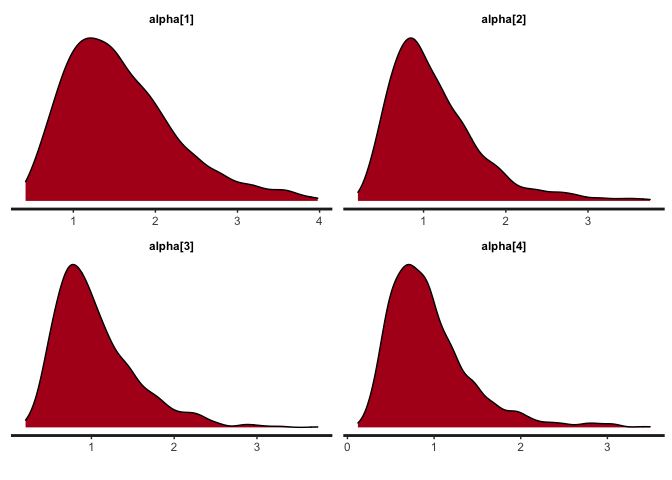
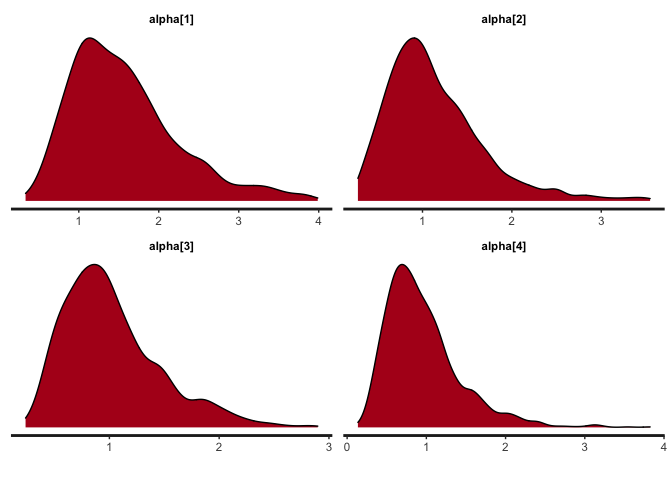
Update comments and figure size in README.Rmd

diff --git a/README.md b/README.md
@@ -47,26 +47,28 @@ model, extract and plot results.
 library(BMGGUM)
 
 ## basic example code
-# Response data
+## Step 1: Input data
+# 1.1 Response data in wide format
 GGUM.Data <- c(1,4,4,1,1,1,1,1,1,1,4,1,1,3,1,1,NA,2,NA,3,2,2,2,1,3,2,NA,2,1,1,2,1,NA,NA,NA,1,3,NA,1,2)
 GGUM.Data <- matrix(GGUM.Data,nrow = 10)
 
-# delindex
+# 1.2 A two-row data matrix: the first row is the item number (1,2,3,4...); the second row indicates the signs of delta for each item (-1,0,1,...). For items that have negative deltas for sure, "-1" should be assigned; for items that have positive deltas, "1" should be assigned; for items whose deltas may be either positive or negative (e.g., intermediate items), "0" should assigned. We recommend at least two positive and two negative items per trait for better estimation.
 delindex <- c(1,-1,2,1,3,-1,4,1)
 delindex <- matrix(delindex,nrow = 2)
 
-# ind
+# 1.3 A row vector mapping each item to each trait. For example, c(1,1,1,2,2,2) means that the first 3 items belong to trait 1 and the last 3 items belong to trait 2.
 ind <- c(1,1,2,2)
 ind <- t(ind)
 
-# covariate
+# 1.4 An p*c person covariate matrix where p equals sample size and c equals the number of covariates. The default is NULL, meaning no person covariate.
 covariate <- c(0.70, -1.25, 0.48, -0.47, 0.86, 1.25, 1.17, -1.35, -0.84, -0.55)
 
-# Fit the MGGUM model
+## Step 2: Fit the MGGUM model
 mod <- BMGGUM(GGUM.Data=GGUM.Data, delindex=delindex, trait=2, ind=ind, option=4, model="UM8", covariate=covariate)
 #> [1] "Case 9 was deleted because they endorse the same response option across all items"
 
-# Extract the theta estimates 
+## Step 3: Extract the estimated results 
+# 3.1 Extract the theta estimates 
 theta <- Extract.BMGGUM(x=mod, pars='theta')
 # Turn the theta estimates into p*trait matrix where p equals sample size and trait equals the number of latent traits
 theta <- theta[,1]
@@ -76,17 +78,17 @@ theta <- t(theta)
 # theta estimates in p*trait matrix format
 theta
 #>              [,1]       [,2]
-#>  [1,]  1.02027771  0.1112450
-#>  [2,] -1.50303636 -0.4757993
-#>  [3,] -1.23103651 -0.5853762
-#>  [4,]  0.69315111  0.9592051
-#>  [5,] -0.03894941 -0.7695685
-#>  [6,]  0.15619541 -0.6873740
-#>  [7,]  0.84861339  0.3318221
-#>  [8,]  0.12068104  0.4478592
-#>  [9,]  0.66487328  0.8901462
+#>  [1,]  1.00755202  0.1051978
+#>  [2,] -1.48304663 -0.3815527
+#>  [3,] -1.24215031 -0.5797086
+#>  [4,]  0.66723737  0.9480621
+#>  [5,]  0.09211222 -0.7688336
+#>  [6,]  0.25556022 -0.7676078
+#>  [7,]  0.87850501  0.3453732
+#>  [8,] -0.04140219  0.4592622
+#>  [9,]  0.65549867  0.8783695
 
-# Extract the tau estimates 
+# 3.2 Extract the tau estimates 
 tau <- Extract.BMGGUM(x=mod, pars='tau')
 # Turn the tau estimates into I*(option-1) matrix where I equals the number of items and option equals the number of response options
 tau <- tau[,1]
@@ -95,38 +97,40 @@ tau <- matrix(tau, nrow=3)
 tau <- t(tau)
 # tau estimates in I*(option-1) matrix format
 tau
-#>            [,1]       [,2]       [,3]
-#> [1,] -0.8559964 -1.4779004 -2.3206627
-#> [2,] -1.5405565 -1.8804769 -1.0592084
-#> [3,] -3.1956647 -0.8870041 -0.8631355
-#> [4,] -2.2876189 -1.3062246 -1.0204106
+#>            [,1]      [,2]       [,3]
+#> [1,] -0.8295094 -1.498559 -2.3144571
+#> [2,] -1.5646050 -1.889293 -1.0866118
+#> [3,] -3.2392564 -0.884879 -0.8864353
+#> [4,] -2.3187464 -1.317304 -1.0316517
 
-# Extract the lambda estimates 
+# 3.3 Extract the lambda estimates 
 lambda <- Extract.BMGGUM(x=mod, pars='lambda')
 # lambda[1,1] is the coefficient linking person covariate 1 to latent trait 1
 # lambda[1,2] is the coefficient linking person covariate 1 to latent trait 2
 lambda
 #>                   mean    se_mean        sd       2.5%        50%     97.5%
-#> lambda[1,1]  0.2563650 0.03887061 0.5254527 -0.6997604  0.2333346 1.4214331
-#> lambda[1,2] -0.2542906 0.02739855 0.6164561 -1.5319360 -0.2272128 0.8995756
+#> lambda[1,1]  0.3133386 0.05326958 0.5466074 -0.6521527  0.2707874 1.5867761
+#> lambda[1,2] -0.2758883 0.03527324 0.6619620 -1.8982070 -0.2321969 0.8771598
 #>                n_eff     Rhat
-#> lambda[1,1] 182.7362 1.023394
-#> lambda[1,2] 506.2316 1.000784
+#> lambda[1,1] 105.2913 1.017840
+#> lambda[1,2] 352.1887 1.005127
 
-# Obtain model fit statistic waic 
+## Step 4: Obtain model fit statistics 
 waic <- Modfit.BMGGUM(x=mod, index='waic')
 loo <- Modfit.BMGGUM(mod)
 
-# Obtain the density plots for alpha
+## Step 5: Plottings
+# 5.1 Obtain the density plots for alpha
 Bayesplot.BMGGUM(x=mod, pars='alpha', plot='density', inc_warmup=F)
 ```
 
-<img src="man/figures/README-example-1.png" width="100%" />
+<img src="man/figures/README-example-1.png" width="70%" />
 
 ``` r
 
-# Obtain item plots with ORCs for item 1, 2, 3
+## Step 6: Plotting observable response categories (ORCs) for items
+# 6.1 Obtain item plots with ORCs for item 1, 2, 3
 Itemplot.BMGGUM(x=mod, items = 1:3)
 ```
 
-<img src="man/figures/README-example-2.png" width="100%" />
+<img src="man/figures/README-example-2.png" width="70%" />
